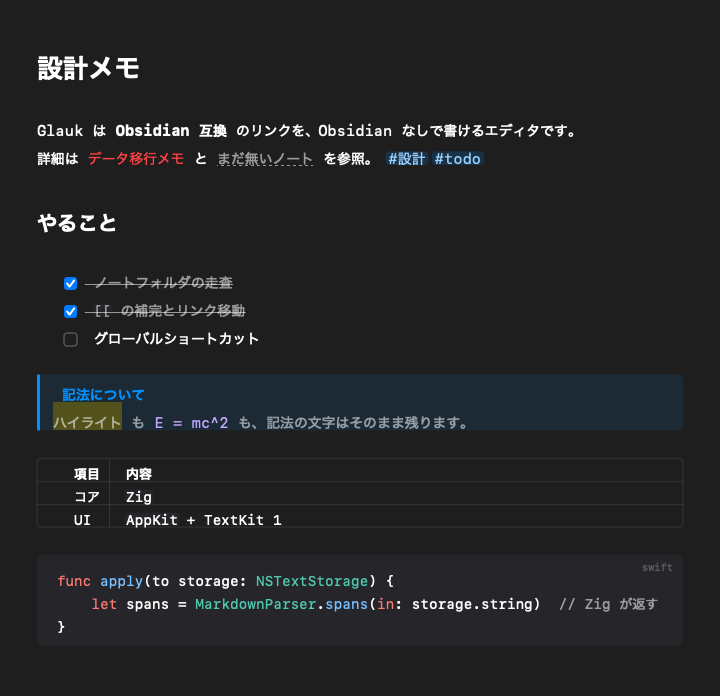
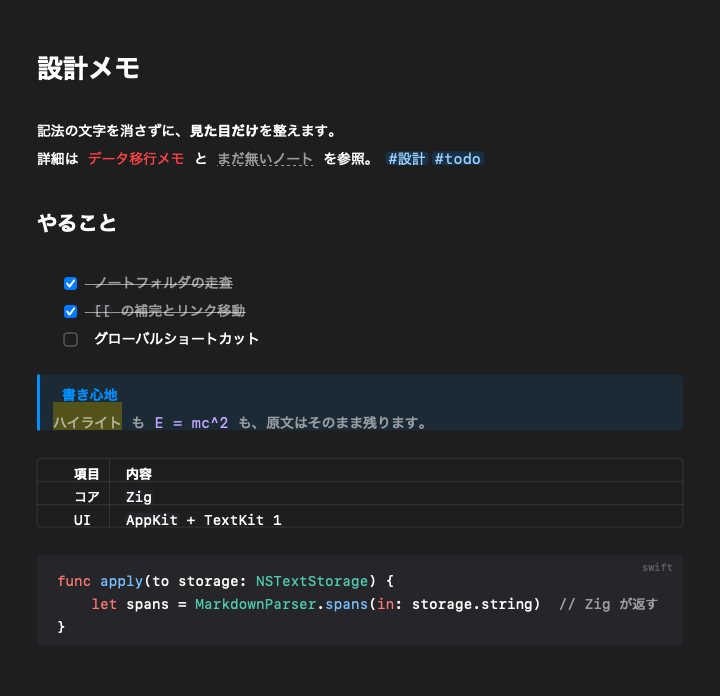
docs: README から Obsidian の話を外す

Changed region(s): [[0.0306, 0.181, 0.7944, 0.2112], [0.3667, 0.5733, 0.6417, 0.6336], [0.0917, 0.5431, 0.2139, 0.5733]]

diff --git a/README.md b/README.md
@@ -4,17 +4,16 @@
 
 <h1 align="center">Glauk</h1>
 
-<p align="center">Obsidian 互換のリンクを、Obsidian なしで。<br>macOS 向けの Markdown エディタ。</p>
+<p align="center">リンクでつなぐ、macOS の Markdown エディタ。</p>
 
 ![本文の表示](docs/editor.png)
 
 記法の文字を消さずに、見た目だけを整えます。
 `[[リンク]]` はローカルフォルダを走査して解決するので、通信もプラグインも要りません。
-Obsidian の vault をそのまま指定できます。
 
 ## できること
 
-- Obsidian の記法をひととおり(見出し・チェックボックス・コールアウト・テーブル・数式・タグなど)
+- ライブプレビュー(見出し・チェックボックス・コールアウト・テーブル・数式・タグなど)
 - コードのシンタックスハイライト
 - `[[` 補完とリンク移動(⌘[ で戻る)。未作成リンクはその場で作れる
 - ノートツリー(⌘\\)とクイックスイッチャー(⌘O)
@@ -36,5 +35,5 @@ Zig 0.15.2 / Xcode が要ります。テストは `cd core && zig test src/root.
 
 ## 使いはじめ
 
-右上の **vault を選ぶ…** でフォルダを指定すると、`[[` にそのノートが出ます。
+右上のボタンからノートを置くフォルダを指定すると、`[[` にそのノートが出ます。
 指定しなくても、単一ファイルのエディタとして動きます。
